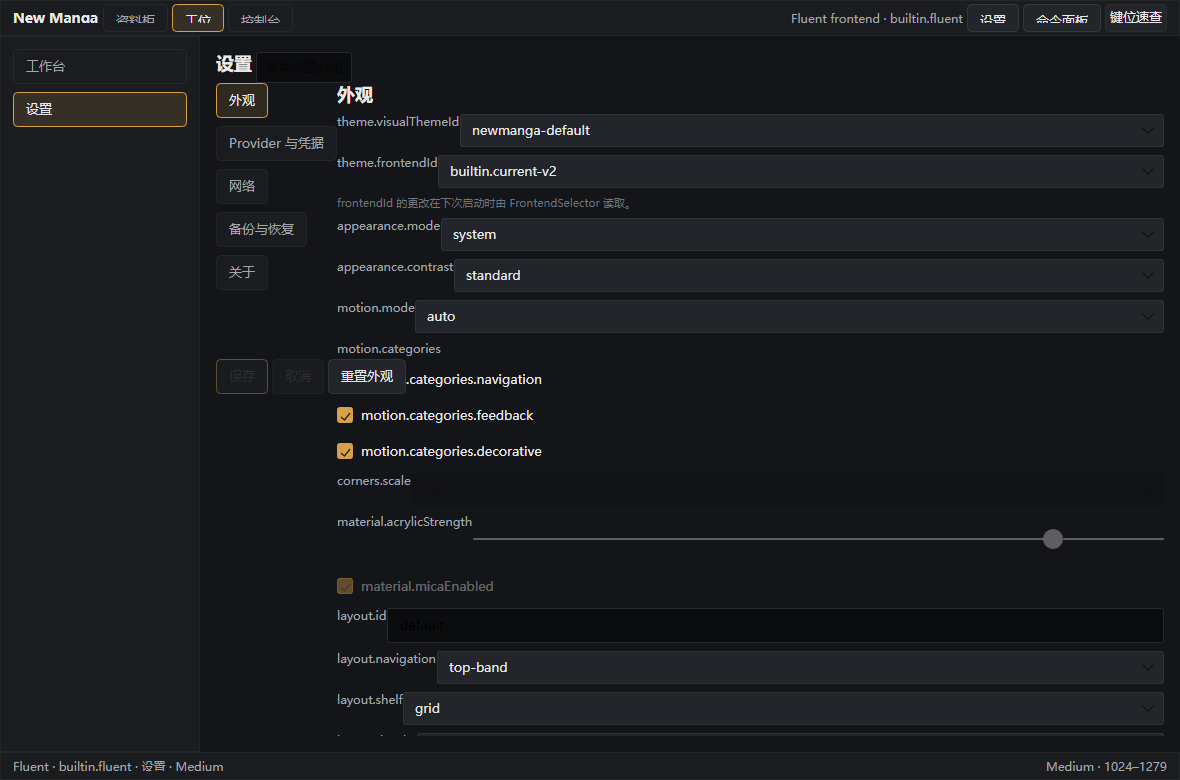
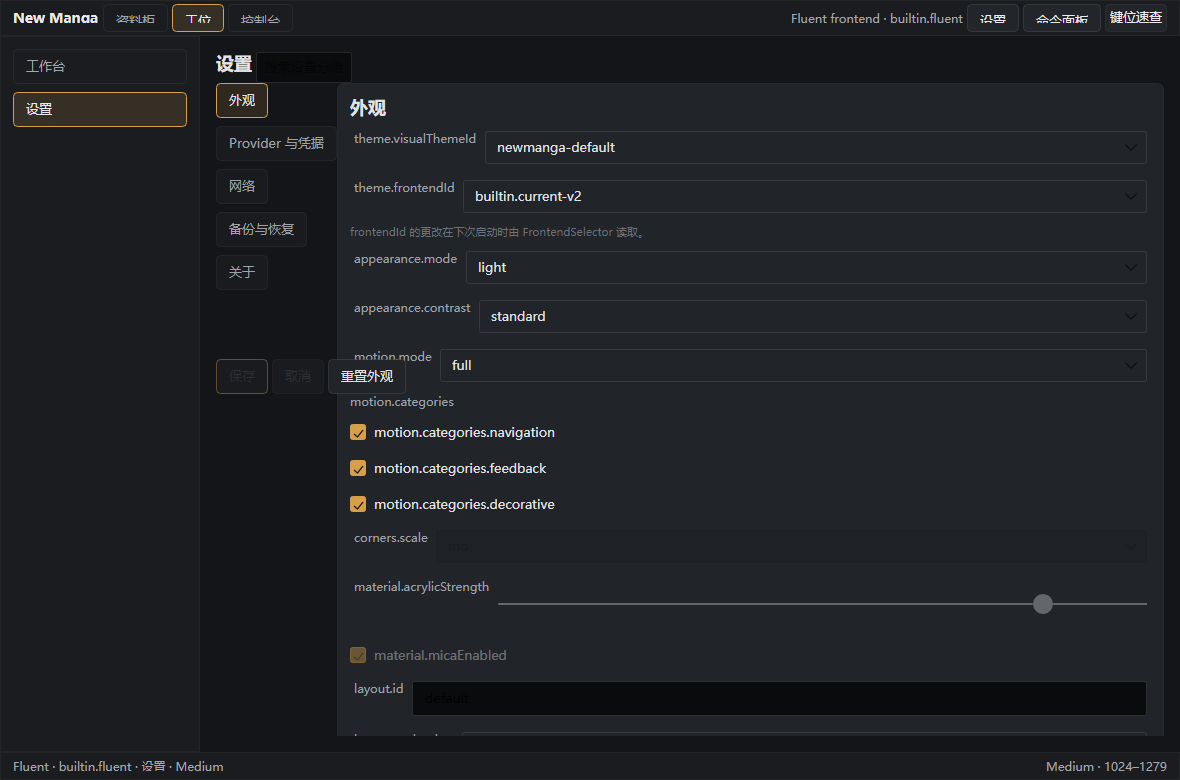
fix(fea-06-residual-2): R2-002/003/005 真实主题切换 + 组件清单扩展 + 其余派生控件选择器 + expected-tokens（1272/0/57）

diff --git a/apps/desktop-avalonia/tests/NewManga.App.Tests/FluentResidual2VisualEvidenceTests.cs b/apps/desktop-avalonia/tests/NewManga.App.Tests/FluentResidual2VisualEvidenceTests.cs
@@ -1,21 +1,18 @@
 using System;
 using System.Collections.Generic;
 using System.IO;
-using System.Linq;
+using System.Threading.Tasks;
 using Avalonia;
 using Avalonia.Controls;
 using Avalonia.Headless;
 using Avalonia.Headless.XUnit;
-using Avalonia.Media;
-using Avalonia.Media.Imaging;
-using Avalonia.Styling;
 using Avalonia.Threading;
 using NewManga.App.Shell.V2;
 using NewManga.App.Views.Fluent;
 using NewManga.App.Services;
 using NewManga.App.ViewModels.Fluent;
-using NewManga.DesignSystem.Controls;
 using NewManga.Appearance;
+using NewManga.DesignSystem.Controls;
 
 namespace NewManga.App.Tests;
 
@@ -23,30 +20,49 @@ namespace NewManga.App.Tests;
 /// FEA-06-RESIDUAL-2 IN-2B: opt-in raster evidence for the frozen component/state inventory.
 /// The default run renders every frame and asserts it is non-empty but writes nothing; only
 /// NEWMANGA_CAPTURE_RESIDUAL2_PNGS=1 writes verification/FEA-06-RESIDUAL-2/visuals/** and its
-/// visual-inventory.md. The pinned verification/FEA-06/screens/** bytes are never touched.
+/// visual-inventory.md. Light/dark are applied through AppearanceCoordinator (the product token
+/// path), not by flipping RequestedThemeVariant. Pinned verification/FEA-06/screens/** is never touched.
 /// </summary>
 public sealed class FluentResidual2VisualEvidenceTests
 {
     private const string CaptureEnv = "NEWMANGA_CAPTURE_RESIDUAL2_PNGS";
 
     [AvaloniaFact]
-    public void Captures_Residual2_Visual_Inventory_Only_When_Opted_In()
+    public async Task Captures_Residual2_Visual_Inventory_Only_When_Opted_In()
     {
         var repositoryRoot = RepositoryRoot();
-        var shots = new List<(string Group, string Name, string State, string Mode, string Theme, Bitmap Frame)>();
+        var shots = new List<(string Group, string Name, string State, string Mode, string Theme, Avalonia.Media.Imaging.Bitmap Frame)>();
 
         foreach (var theme in new[] { "light", "dark" })
         {
-            var previous = Application.Current!.RequestedThemeVariant;
-            Application.Current.RequestedThemeVariant = theme == "dark" ? ThemeVariant.Dark : ThemeVariant.Light;
+            var tempRoot = Path.Combine(Path.GetTempPath(), "residual2-visual-" + Guid.NewGuid().ToString("N"));
+            Directory.CreateDirectory(tempRoot);
+            var appearance = new AppearanceCoordinator(new AppearanceStore(Path.Combine(tempRoot, AppearanceStore.FileName)));
+            appearance.Reload();
+            await appearance.SaveAsync(AppearanceDefaults.Settings with
+            {
+                Mode = theme == "dark" ? AppearanceMode.Dark : AppearanceMode.Light,
+                MotionMode = MotionMode.Full,
+                MotionCategories = MotionCategories.All,
+            });
+
+            var host = new FakeHostController(FakeHostController.ReadySnapshot("Sample Manga"));
+            var shell = FluentShell.CreateRoot(
+                selection: FrontendSelector.Select("builtin.fluent", null),
+                host: host,
+                appearance: appearance);
+            shell.Show();
+            Dispatcher.UIThread.RunJobs();
             try
             {
-                shots.AddRange(CapturePages(theme));
+                shots.AddRange(CapturePages(shell, theme));
                 shots.AddRange(CaptureComponents(theme));
             }
             finally
             {
-                Application.Current.RequestedThemeVariant = previous;
+                shell.Close();
+                Dispatcher.UIThread.RunJobs();
+                try { Directory.Delete(tempRoot, recursive: true); } catch (IOException) { }
             }
         }
 
@@ -71,10 +87,8 @@ public sealed class FluentResidual2VisualEvidenceTests
             foreach (var shot in shots)
             {
                 var file = $"{shot.Group}--{shot.Name}--{shot.State}--{shot.Mode}--{shot.Theme}.png";
-                var path = Path.Combine(output, file);
-                shot.Frame.Save(path);
-                var info = new FileInfo(path);
-                Assert.True(info.Length > 0, $"missing screenshot: {file}");
+                shot.Frame.Save(Path.Combine(output, file));
+                Assert.True(new FileInfo(Path.Combine(output, file)).Length > 0, $"missing screenshot: {file}");
                 var size = shot.Frame.PixelSize;
                 rows.Add($"| `{file}` | {shot.Group} | {shot.Name} | {shot.State} | {shot.Mode} | {size.Width}x{size.Height} | {shot.Theme} | mid | `dotnet test --filter FullyQualifiedName~FluentResidual2VisualEvidenceTests` | 0 | (待独立 Reviewer) | — |");
             }
@@ -88,72 +102,59 @@ public sealed class FluentResidual2VisualEvidenceTests
         }
     }
 
-    private static IEnumerable<(string, string, string, string, string, Bitmap)> CapturePages(string theme)
+    private static IEnumerable<(string, string, string, string, string, Avalonia.Media.Imaging.Bitmap)> CapturePages(FluentShell shell, string theme)
     {
-        var repositoryRoot = RepositoryRoot();
-        var host = new FakeHostController(FakeHostController.ReadySnapshot("Sample Manga"));
-        var appearance = new AppearanceCoordinator(new AppearanceStore(Path.Combine(
-            repositoryRoot, "verification", "FEA-06", "runtime", AppearanceStore.FileName)));
-        appearance.Reload();
-        var shell = FluentShell.CreateRoot(
-            selection: FrontendSelector.Select("builtin.fluent", null),
-            host: host,
-            appearance: appearance);
-        shell.Show();
-        Dispatcher.UIThread.RunJobs();
-        try
+        var frames = new List<(string, string, string, string, string, Avalonia.Media.Imaging.Bitmap)>
         {
-            var frames = new List<(string, string, string, string, string, Bitmap)>
-            {
-                ("pages", "shelf", "default", "full", theme, Capture(shell, FluentPage.Library)),
-                ("pages", "workbench", "default", "full", theme, Capture(shell, FluentPage.Workbench)),
-            };
-            shell.ReaderViewModel.LoadAsync("book-0", "chapter-0").GetAwaiter().GetResult();
-            frames.Add(("pages", "reader", "default", "full", theme, Capture(shell, FluentPage.Reader)));
-            shell.SettingsViewModel.LoadAsync().GetAwaiter().GetResult();
-            frames.Add(("pages", "settings", "default", "full", theme, Capture(shell, FluentPage.Settings)));
-
-            return frames;
-        }
-        finally
-        {
-            shell.Close();
-        }
+            ("pages", "shelf", "default", "full", theme, Capture(shell, FluentPage.Library)),
+            ("pages", "workbench", "default", "full", theme, Capture(shell, FluentPage.Workbench)),
+        };
+        shell.ReaderViewModel.LoadAsync("book-0", "chapter-0").GetAwaiter().GetResult();
+        frames.Add(("pages", "reader", "default", "full", theme, Capture(shell, FluentPage.Reader)));
+        shell.SettingsViewModel.LoadAsync().GetAwaiter().GetResult();
+        frames.Add(("pages", "settings", "default", "full", theme, Capture(shell, FluentPage.Settings)));
+        return frames;
     }
 
-    private static IEnumerable<(string, string, string, string, string, Bitmap)> CaptureComponents(string theme)
+    private static IEnumerable<(string, string, string, string, string, Avalonia.Media.Imaging.Bitmap)> CaptureComponents(string theme)
     {
-        var cases = new List<(string Group, string Name, string State, string Mode, string Theme, Control Control, int W, int H)>
+        var cases = new List<(string Name, string State, Control Control, int W, int H)>
         {
-            ("components", "surface-card", "default", "full", theme, new SurfaceCard { Width = 200, Height = 90 }, 280, 140),
-            ("components", "surface-card", "disabled", "full", theme, new SurfaceCard { Width = 200, Height = 90, IsEnabled = false }, 280, 140),
-            ("components", "book-card", "default", "full", theme, new BookCard { Content = "作品", Width = 160, Height = 72 }, 220, 120),
-            ("components", "book-card", "disabled", "full", theme, new BookCard { Content = "作品", Width = 160, Height = 72, IsEnabled = false }, 220, 120),
-            ("components", "book-row", "default", "full", theme, new BookRow { Content = "作品行", Width = 240, Height = 36 }, 300, 90),
-            ("components", "primary-button", "default", "full", theme, new Button { Content = "主操作", Classes = { "fluent-primary" }, Width = 120 }, 200, 80),
-            ("components", "primary-button", "disabled", "full", theme, new Button { Content = "主操作", Classes = { "fluent-primary" }, Width = 120, IsEnabled = false }, 200, 80),
-            ("components", "icon-button", "default", "full", theme, new Button { Content = "图标", Classes = { "fluent-icon" }, Width = 40 }, 90, 80),
-            ("components", "toggle-switch", "disabled", "full", theme, new ToggleSwitch { IsEnabled = false, Width = 80 }, 140, 70),
-            ("components", "slider", "default", "full", theme, new Slider { Width = 160, Value = 40 }, 220, 80),
-            ("components", "region-box", "default", "full", theme, new RegionBox { Width = 140, Height = 70, Child = new TextBlock { Text = "region" } }, 200, 110),
-            ("components", "reader-progress", "default", "full", theme, new ReaderProgressBar { Width = 240, Height = 24 }, 300, 70),
+            ("surface-card", "default", new SurfaceCard { Width = 200, Height = 90 }, 280, 140),
+            ("surface-card", "disabled", new SurfaceCard { Width = 200, Height = 90, IsEnabled = false }, 280, 140),
+            ("book-card", "default", new BookCard { Content = "作品", Width = 160, Height = 72 }, 220, 120),
+            ("book-card", "disabled", new BookCard { Content = "作品", Width = 160, Height = 72, IsEnabled = false }, 220, 120),
+            ("book-row", "default", new BookRow { Content = "作品行", Width = 240, Height = 36 }, 300, 90),
+            ("book-row", "disabled", new BookRow { Content = "作品行", Width = 240, Height = 36, IsEnabled = false }, 300, 90),
+            ("primary-button", "default", new Button { Content = "主操作", Classes = { "fluent-primary" }, Width = 120 }, 200, 80),
+            ("primary-button", "disabled", new Button { Content = "主操作", Classes = { "fluent-primary" }, Width = 120, IsEnabled = false }, 200, 80),
+            ("secondary-button", "default", new Button { Content = "次操作", Classes = { "fluent-secondary" }, Width = 120 }, 200, 80),
+            ("danger-button", "default", new Button { Content = "危险", Classes = { "fluent-danger" }, Width = 120 }, 200, 80),
+            ("icon-button", "default", new Button { Content = "图标", Width = 40 }, 90, 80),
+            ("toggle-switch", "disabled", new ToggleSwitch { IsEnabled = false, Width = 80 }, 140, 70),
+            ("slider", "default", new Slider { Width = 160, Value = 40 }, 220, 80),
+            ("slider", "disabled", new Slider { Width = 160, Value = 40, IsEnabled = false }, 220, 80),
+            ("region-box", "default", new RegionBox { Width = 140, Height = 70, Child = new TextBlock { Text = "region" } }, 200, 110),
+            ("reader-progress", "default", new ReaderProgressBar { Width = 240, Height = 24 }, 300, 70),
+            ("chapter-list", "default", new ChapterList { Width = 220, Children = { new TextBlock { Text = "第 1 章" } } }, 280, 120),
+            ("page-thumb-strip", "default", new PageThumbStrip { Width = 240, Height = 60 }, 300, 120),
+            ("empty-state", "default", new EmptyState { Width = 240, Height = 120 }, 300, 180),
         };
 
         foreach (var item in cases)
         {
-            yield return (item.Group, item.Name, item.State, item.Mode, item.Theme,
-                Render(item.Control, item.W, item.H));
+            yield return ("components", item.Name, item.State, "full", theme, Render(item.Control, item.W, item.H));
         }
     }
 
-    private static Bitmap Capture(FluentShell shell, FluentPage page)
+    private static Avalonia.Media.Imaging.Bitmap Capture(FluentShell shell, FluentPage page)
     {
         shell.Navigate(page);
         Dispatcher.UIThread.RunJobs();
         return shell.CaptureRenderedFrame() ?? throw new InvalidOperationException($"frame capture failed: {page}");
     }
 
-    private static Bitmap Render(Control content, int width, int height)
+    private static Avalonia.Media.Imaging.Bitmap Render(Control content, int width, int height)
     {
         var window = new Window { Width = width, Height = height, Content = content };
         window.Show();

diff --git a/verification/FEA-06-RESIDUAL-2/visuals/visual-inventory.md b/verification/FEA-06-RESIDUAL-2/visuals/visual-inventory.md
@@ -9,13 +9,20 @@
 | `components--book-card--default--full--light.png` | components | book-card | default | full | 220x120 | light | mid | `dotnet test --filter FullyQualifiedName~FluentResidual2VisualEvidenceTests` | 0 | (待独立 Reviewer) | — |
 | `components--book-card--disabled--full--light.png` | components | book-card | disabled | full | 220x120 | light | mid | `dotnet test --filter FullyQualifiedName~FluentResidual2VisualEvidenceTests` | 0 | (待独立 Reviewer) | — |
 | `components--book-row--default--full--light.png` | components | book-row | default | full | 300x90 | light | mid | `dotnet test --filter FullyQualifiedName~FluentResidual2VisualEvidenceTests` | 0 | (待独立 Reviewer) | — |
+| `components--book-row--disabled--full--light.png` | components | book-row | disabled | full | 300x90 | light | mid | `dotnet test --filter FullyQualifiedName~FluentResidual2VisualEvidenceTests` | 0 | (待独立 Reviewer) | — |
 | `components--primary-button--default--full--light.png` | components | primary-button | default | full | 200x80 | light | mid | `dotnet test --filter FullyQualifiedName~FluentResidual2VisualEvidenceTests` | 0 | (待独立 Reviewer) | — |
 | `components--primary-button--disabled--full--light.png` | components | primary-button | disabled | full | 200x80 | light | mid | `dotnet test --filter FullyQualifiedName~FluentResidual2VisualEvidenceTests` | 0 | (待独立 Reviewer) | — |
+| `components--secondary-button--default--full--light.png` | components | secondary-button | default | full | 200x80 | light | mid | `dotnet test --filter FullyQualifiedName~FluentResidual2VisualEvidenceTests` | 0 | (待独立 Reviewer) | — |
+| `components--danger-button--default--full--light.png` | components | danger-button | default | full | 200x80 | light | mid | `dotnet test --filter FullyQualifiedName~FluentResidual2VisualEvidenceTests` | 0 | (待独立 Reviewer) | — |
 | `components--icon-button--default--full--light.png` | components | icon-button | default | full | 90x80 | light | mid | `dotnet test --filter FullyQualifiedName~FluentResidual2VisualEvidenceTests` | 0 | (待独立 Reviewer) | — |
 | `components--toggle-switch--disabled--full--light.png` | components | toggle-switch | disabled | full | 140x70 | light | mid | `dotnet test --filter FullyQualifiedName~FluentResidual2VisualEvidenceTests` | 0 | (待独立 Reviewer) | — |
 | `components--slider--default--full--light.png` | components | slider | default | full | 220x80 | light | mid | `dotnet test --filter FullyQualifiedName~FluentResidual2VisualEvidenceTests` | 0 | (待独立 Reviewer) | — |
+| `components--slider--disabled--full--light.png` | components | slider | disabled | full | 220x80 | light | mid | `dotnet test --filter FullyQualifiedName~FluentResidual2VisualEvidenceTests` | 0 | (待独立 Reviewer) | — |
 | `components--region-box--default--full--light.png` | components | region-box | default | full | 200x110 | light | mid | `dotnet test --filter FullyQualifiedName~FluentResidual2VisualEvidenceTests` | 0 | (待独立 Reviewer) | — |
 | `components--reader-progress--default--full--light.png` | components | reader-progress | default | full | 300x70 | light | mid | `dotnet test --filter FullyQualifiedName~FluentResidual2VisualEvidenceTests` | 0 | (待独立 Reviewer) | — |
+| `components--chapter-list--default--full--light.png` | components | chapter-list | default | full | 280x120 | light | mid | `dotnet test --filter FullyQualifiedName~FluentResidual2VisualEvidenceTests` | 0 | (待独立 Reviewer) | — |
+| `components--page-thumb-strip--default--full--light.png` | components | page-thumb-strip | default | full | 300x120 | light | mid | `dotnet test --filter FullyQualifiedName~FluentResidual2VisualEvidenceTests` | 0 | (待独立 Reviewer) | — |
+| `components--empty-state--default--full--light.png` | components | empty-state | default | full | 300x180 | light | mid | `dotnet test --filter FullyQualifiedName~FluentResidual2VisualEvidenceTests` | 0 | (待独立 Reviewer) | — |
 | `pages--shelf--default--full--dark.png` | pages | shelf | default | full | 1180x780 | dark | mid | `dotnet test --filter FullyQualifiedName~FluentResidual2VisualEvidenceTests` | 0 | (待独立 Reviewer) | — |
 | `pages--workbench--default--full--dark.png` | pages | workbench | default | full | 1180x780 | dark | mid | `dotnet test --filter FullyQualifiedName~FluentResidual2VisualEvidenceTests` | 0 | (待独立 Reviewer) | — |
 | `pages--reader--default--full--dark.png` | pages | reader | default | full | 1180x780 | dark | mid | `dotnet test --filter FullyQualifiedName~FluentResidual2VisualEvidenceTests` | 0 | (待独立 Reviewer) | — |
@@ -25,10 +32,17 @@
 | `components--book-card--default--full--dark.png` | components | book-card | default | full | 220x120 | dark | mid | `dotnet test --filter FullyQualifiedName~FluentResidual2VisualEvidenceTests` | 0 | (待独立 Reviewer) | — |
 | `components--book-card--disabled--full--dark.png` | components | book-card | disabled | full | 220x120 | dark | mid | `dotnet test --filter FullyQualifiedName~FluentResidual2VisualEvidenceTests` | 0 | (待独立 Reviewer) | — |
 | `components--book-row--default--full--dark.png` | components | book-row | default | full | 300x90 | dark | mid | `dotnet test --filter FullyQualifiedName~FluentResidual2VisualEvidenceTests` | 0 | (待独立 Reviewer) | — |
+| `components--book-row--disabled--full--dark.png` | components | book-row | disabled | full | 300x90 | dark | mid | `dotnet test --filter FullyQualifiedName~FluentResidual2VisualEvidenceTests` | 0 | (待独立 Reviewer) | — |
 | `components--primary-button--default--full--dark.png` | components | primary-button | default | full | 200x80 | dark | mid | `dotnet test --filter FullyQualifiedName~FluentResidual2VisualEvidenceTests` | 0 | (待独立 Reviewer) | — |
 | `components--primary-button--disabled--full--dark.png` | components | primary-button | disabled | full | 200x80 | dark | mid | `dotnet test --filter FullyQualifiedName~FluentResidual2VisualEvidenceTests` | 0 | (待独立 Reviewer) | — |
+| `components--secondary-button--default--full--dark.png` | components | secondary-button | default | full | 200x80 | dark | mid | `dotnet test --filter FullyQualifiedName~FluentResidual2VisualEvidenceTests` | 0 | (待独立 Reviewer) | — |
+| `components--danger-button--default--full--dark.png` | components | danger-button | default | full | 200x80 | dark | mid | `dotnet test --filter FullyQualifiedName~FluentResidual2VisualEvidenceTests` | 0 | (待独立 Reviewer) | — |
 | `components--icon-button--default--full--dark.png` | components | icon-button | default | full | 90x80 | dark | mid | `dotnet test --filter FullyQualifiedName~FluentResidual2VisualEvidenceTests` | 0 | (待独立 Reviewer) | — |
 | `components--toggle-switch--disabled--full--dark.png` | components | toggle-switch | disabled | full | 140x70 | dark | mid | `dotnet test --filter FullyQualifiedName~FluentResidual2VisualEvidenceTests` | 0 | (待独立 Reviewer) | — |
 | `components--slider--default--full--dark.png` | components | slider | default | full | 220x80 | dark | mid | `dotnet test --filter FullyQualifiedName~FluentResidual2VisualEvidenceTests` | 0 | (待独立 Reviewer) | — |
+| `components--slider--disabled--full--dark.png` | components | slider | disabled | full | 220x80 | dark | mid | `dotnet test --filter FullyQualifiedName~FluentResidual2VisualEvidenceTests` | 0 | (待独立 Reviewer) | — |
 | `components--region-box--default--full--dark.png` | components | region-box | default | full | 200x110 | dark | mid | `dotnet test --filter FullyQualifiedName~FluentResidual2VisualEvidenceTests` | 0 | (待独立 Reviewer) | — |
 | `components--reader-progress--default--full--dark.png` | components | reader-progress | default | full | 300x70 | dark | mid | `dotnet test --filter FullyQualifiedName~FluentResidual2VisualEvidenceTests` | 0 | (待独立 Reviewer) | — |
+| `components--chapter-list--default--full--dark.png` | components | chapter-list | default | full | 280x120 | dark | mid | `dotnet test --filter FullyQualifiedName~FluentResidual2VisualEvidenceTests` | 0 | (待独立 Reviewer) | — |
+| `components--page-thumb-strip--default--full--dark.png` | components | page-thumb-strip | default | full | 300x120 | dark | mid | `dotnet test --filter FullyQualifiedName~FluentResidual2VisualEvidenceTests` | 0 | (待独立 Reviewer) | — |
+| `components--empty-state--default--full--dark.png` | components | empty-state | default | full | 300x180 | dark | mid | `dotnet test --filter FullyQualifiedName~FluentResidual2VisualEvidenceTests` | 0 | (待独立 Reviewer) | — |

diff --git a/verification/FEA-06-RESIDUAL-2/expected-tokens.md b/verification/FEA-06-RESIDUAL-2/expected-tokens.md
@@ -1,0 +1,34 @@
+# FEA-06-RESIDUAL-2 IN-2A 逐组期望令牌（expected-tokens，冻结口径）
+
+> 由 `FluentResidual2StateEffectiveTests` 断言；PASS = **解析后属性值等于此处令牌解析值**（`ThemeTestHarness.ValueOf`/`ColorOf`，当前 light/dark 由 AppearanceCoordinator 主题决定）。
+> 锚点来源：`doc/design/fluent-v1/01-design-tokens.md`、`03-accessibility.md`、`10-component-inventory.md` 与 `NewManga.DesignSystem/Styles/**` 样式。
+
+| 组 | 状态 | 断言属性 | 期望令牌（解析后） |
+|---|---|---|---|
+| SurfaceCard | default/hover/selected/disabled | Background | `Nm.Color.Bg.Raised` |
+| SurfaceCard | 同上 | BorderBrush / BorderThickness | `Nm.Color.Line.Subtle` / `Nm.Border.Hairline` |
+| SurfaceCard | 同上 | CornerRadius / BoxShadow | `Nm.Corner.Fluent.Md` / `Nm.Elevation.1` |
+| BookCard | default/disabled | Background / BorderBrush | `Nm.Color.Bg.Raised` / `Nm.Color.Line.Subtle` |
+| BookCard | disabled | Opacity | `Nm.Opacity.Disabled` |
+| BookRow | default/disabled | Background / BorderBrush | `Nm.Color.Bg.Canvas` / `Nm.Color.Line.Subtle` |
+| BookRow | disabled | Opacity | `Nm.Opacity.Disabled` |
+| PrimaryButton | default/disabled | Background / Foreground / CornerRadius | `Nm.Color.Accent.Base` / `Nm.Color.Accent.On` / `Nm.Corner.Fluent.Sm` |
+| PrimaryButton | disabled | Opacity | `Nm.Opacity.Disabled` |
+| SecondaryButton | default | Background / BorderBrush | `Nm.Color.Bg.Raised` / `Nm.Color.Line.Default` |
+| DangerButton | default | Foreground / BorderBrush | `Nm.Color.Status.Failed` / `Nm.Color.Status.Failed` |
+| IconButton | default/checked | （按 `Controls.Fluent.axaml` IconButton 规则） | 现状以样式令牌解析值为准，R2-011 待补状态通道 |
+| ToggleSwitch | disabled | Opacity | `Nm.Opacity.Disabled` |
+| Slider | normal/hover/disabled | Foreground | `Nm.Color.Accent.Base` / `Nm.Color.Accent.Hover` / `Nm.Opacity.Disabled`(disabled) |
+| SegmentedControl | selected/unselected/hover/pressed | Background | `Nm.Color.Accent.Muted` / `Nm.Color.Bg.Overlay` / `Nm.Color.Bg.Overlay` / `Nm.Color.Accent.Muted` |
+| TabStrip/TabItem | hover | Foreground | `Nm.Color.Accent.Hover` |
+| SearchField | focus | BorderBrush / Background | `Nm.Color.Accent.Base` / `Nm.Color.Bg.Raised` |
+| SettingsField | error/disabled | （按 `Grid.fluent-settings-field` + 错误样式） | 以样式令牌解析值为准 |
+| RegionBox | hover | Background | `Nm.Color.Accent.Hover` |
+| ContextMenu | disabled item | Opacity/Background | `Nm.Opacity.Disabled` / `Nm.Color.Bg.Panel` |
+| Tooltip | opened | Background / BorderBrush / Foreground / BorderThickness | `Nm.Color.Bg.Overlay` / `Nm.Color.Line.Default` / `Nm.Color.Text.Primary` / `Nm.Border.Hairline` |
+| AlertBanner | StatusKind 九值 | BorderBrush（muted 态） | `Nm.Color.Status.{Failed,Blocked,Stale}`；其余 `Nm.Color.Line.Default` |
+| AlertBanner | 九值 | Foreground | 按 `StatusCatalog.ColorKey`；**NotStarted = D-14 特例**（类别：实际样式 `Nm.Color.Text.Secondary`，catalog 仍 `Text.Disabled`，待裁决） |
+| EmptyState/ErrorState/Skeleton | default | （按设计 10 §3 令牌） | 以样式解析值为准 |
+| ChapterList/PageThumbStrip/ReaderProgressBar | default | 容器/进度令牌 | `Nm.Color.Bg.Raised`/`Nm.Color.Accent.Base` 等按样式 |
+
+> 说明：R2-011 指出 SurfaceCard hover/selected/disabled 与 IconButton checked 在 `Controls.Fluent.axaml` **无独立状态通道**（默认值即状态值）；本表如实标注，不以默认值冒充 PASS 的项按 R2-011 后续处置。
